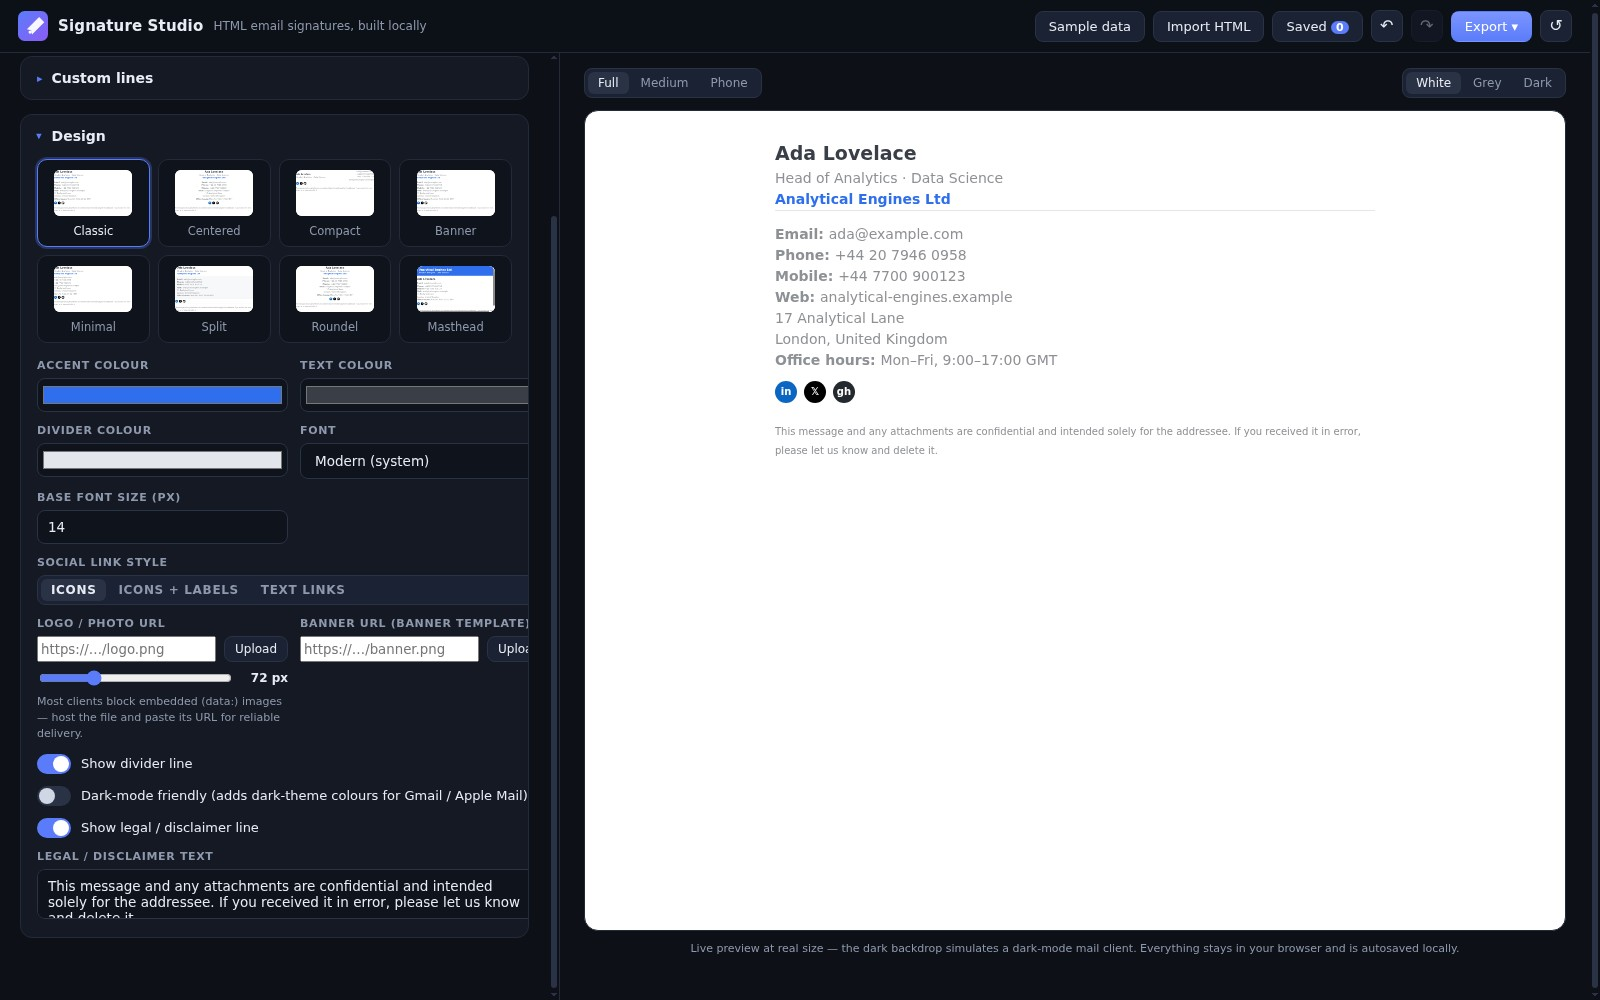
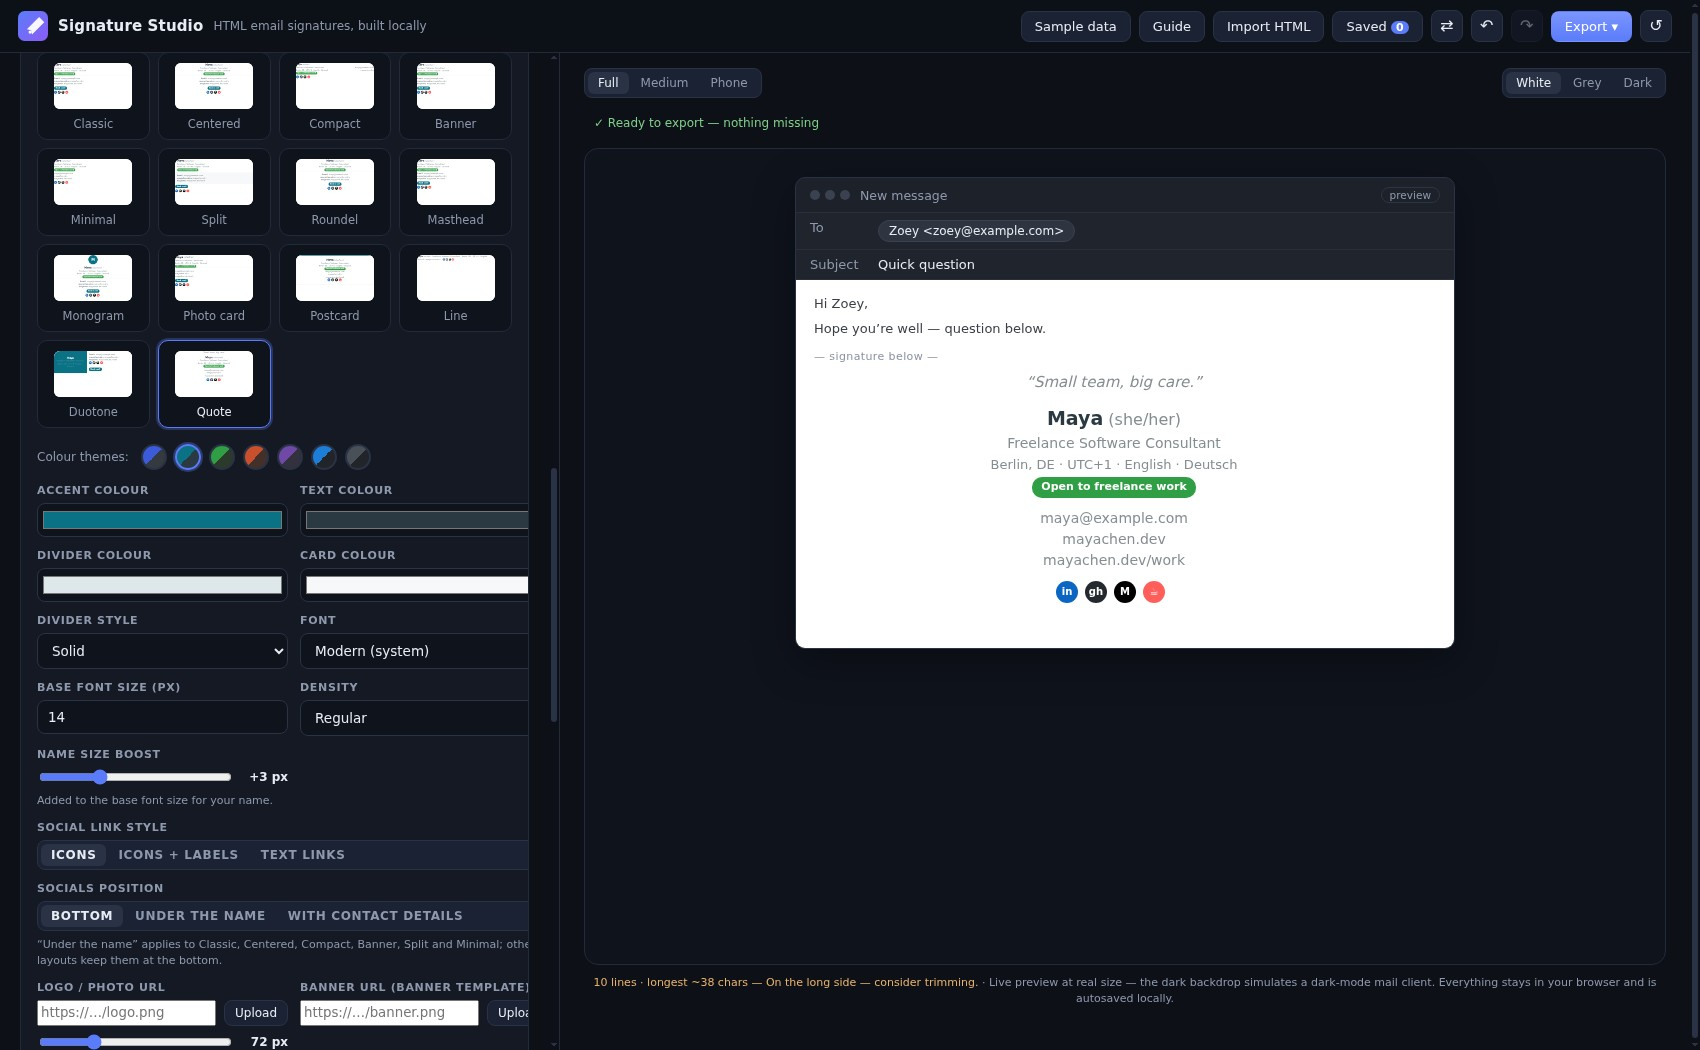
v0.17.0: four new templates — Postcard, Line, Duotone, Quote
- Postcard: casual bordered card with an accent strip, centered
  content, labels off, socials at the bottom
- Line: one casual row — name · title · location · website with tiny
  18px inline social chips (socialChipHtml gained an optional size
  param; all existing calls byte-identical)
- Duotone: bold 220px accent panel with white identity text beside a
  white contact column; stacks on phones via m-cell
- Quote: personal centred layout with an optional italic favourite
  quote (new design.quoteText field, empty = omitted); freelancer
  sample carries one
- All Outlook-safe (table layout, inline styles, strict-mode radius
  handling); E2E now 53 tests (4 new template markers), 53/53 twice
- Reverted two subagent calls: default accent colour restored to
  #2f6fed (marker updated instead), corporate sample kept quote-free
- Docs + refreshed templates gallery screenshot

diff --git a/assets/js/templates.js b/assets/js/templates.js
@@ -176,7 +176,7 @@ function contactInlineHtml(s, d, { labels = false } = {}) {
     .join(`<span style="font-size:${d.fontSize}px;color:${mutedColor(d)};">&nbsp;·&nbsp;</span>`);
 }
 
-function socialChipHtml(d, soc, withLabel) {
+function socialChipHtml(d, soc, withLabel, size = 22) {
   const net = networkById(soc.network);
   const isCustom = net.id === 'custom';
   const glyph = isCustom ? (soc.glyph || '↗') : net.glyph;
@@ -186,8 +186,8 @@ function socialChipHtml(d, soc, withLabel) {
   const href = normalizeUrl(net.id, raw);
   const iconUrl = String(soc.iconUrl || '').trim();
   const chip = iconUrl
-    ? `<img src="${esc(iconUrl)}" width="22" height="22" alt="" style="display:inline-block;width:22px;height:22px;border:0;${br(d, '11px')}vertical-align:middle;">`
-    : `<span style="display:inline-block;width:22px;height:22px;line-height:22px;text-align:center;` +
+    ? `<img src="${esc(iconUrl)}" width="${size}" height="${size}" alt="" style="display:inline-block;width:${size}px;height:${size}px;border:0;${br(d, '11px')}vertical-align:middle;">`
+    : `<span style="display:inline-block;width:${size}px;height:${size}px;line-height:${size}px;text-align:center;` +
       `background-color:${color};color:#ffffff;${br(d, '11px')}` +
       `font-family:Arial,Helvetica,sans-serif;font-size:10px;font-weight:bold;vertical-align:middle;">${esc(glyph)}</span>`;
   if (!withLabel) return `<a href="${esc(href)}" style="text-decoration:none;">${chip}</a>`;
@@ -566,6 +566,176 @@ function photocardRows(s, d) {
   return rows.join('\n');
 }
 
+/* Postcard: a friendly bordered card with a 6px accent strip up top —
+   casual, warm, everything centred inside the card. */
+function postcardRows(s, d) {
+  const rows = [];
+  const den = densityOf(d);
+
+  const strip = `<tr><td colspan="2" height="6" style="height:6px;line-height:6px;font-size:0;background-color:${d.primaryColor};"></td></tr>`;
+
+  const logo = logoCellHtml(s, d);
+  const logoBlock = logo
+    ? `<table role="presentation" cellpadding="0" cellspacing="0" border="0" align="center" style="border-collapse:collapse;"><tr><td align="center" style="padding:0 0 ${den.rowGap}px 0;">${logo}</td></tr></table>`
+    : '';
+  const identity = [nameHtml(s, d), titleHtml(s, d), companyHtml(s, d),
+    contextLineHtml(s, d), statusHtml(s, d)].join('').replace(/<br>$/, '');
+  const stack = contactStackHtml(s, d, { labels: false });
+  const socials = socialsRowHtml(s, d);
+  const socialsBlock = socials
+    ? `<table role="presentation" cellpadding="0" cellspacing="0" border="0" align="center" style="border-collapse:collapse;"><tr><td>${socials}</td></tr></table>`
+    : '';
+
+  const inner = [logoBlock, identity, stack, socialsBlock].filter(x => x !== '').join('<br>');
+
+  rows.push(`<tr><td colspan="2" style="border:1px solid ${d.dividerColor};${br(d, '10px')}background-color:#ffffff;padding:0;">` +
+    `<table role="presentation" width="100%" cellpadding="0" cellspacing="0" border="0" style="border-collapse:collapse;">` +
+    strip +
+    `<tr><td colspan="2" align="center" style="padding:${den.cellPad}px;">${inner || '&nbsp;'}</td></tr>` +
+    `</table></td></tr>`);
+  rows.push(legalHtml(s, d));
+  return rows.join('\n');
+}
+
+/* Line: one casual line — name, a few muted details, tiny 18px socials. */
+function lineRows(s, d) {
+  const rows = [];
+  const muted = mutedColor(d);
+  const sep = `<span style="font-size:${d.fontSize}px;color:${muted};">&nbsp;·&nbsp;</span>`;
+  const parts = [];
+
+  const name = nameHtml(s, d, { big: false }).replace(/<br>$/, '');
+  if (name) parts.push(name);
+
+  if (d.showTitle !== false) {
+    const bits = [
+      s.profile.title,
+      d.showDepartment !== false ? s.profile.department : '',
+    ].filter(Boolean);
+    if (bits.length) {
+      parts.push(`<span${dmCls(d, 'mut')} style="${textStyle(d, { color: muted })}">${esc(bits.join('  ·  '))}</span>`);
+    }
+  }
+
+  if (d.showLocation !== false) {
+    const loc = [s.profile.location, s.profile.languages].filter(Boolean).join('  ·  ');
+    if (loc) {
+      parts.push(`<span${dmCls(d, 'mut')} style="${textStyle(d, { color: muted })}">${esc(loc)}</span>`);
+    }
+  }
+
+  if (s.contact.website && d.showWebsite !== false) {
+    const href = normalizeUrl('custom', s.contact.website);
+    const label = String(s.contact.websiteLabel || '').trim() || s.contact.website;
+    parts.push(`<a href="${esc(href)}"${dmCls(d, 'mut')} style="${textStyle(d, { color: muted })};text-decoration:none;">${esc(label)}</a>`);
+  }
+
+  if (d.showSocials !== false) {
+    const socials = s.socials.filter(x => String(x.url || '').trim());
+    if (socials.length) {
+      const chips = socials.map(soc => socialChipHtml(d, soc, false, 18)).join('&nbsp;');
+      parts.push(`&nbsp;&nbsp;${chips}`);
+    }
+  }
+
+  if (parts.length) {
+    rows.push(`<tr><td colspan="2" align="left">${parts.join(sep)}</td></tr>`);
+  }
+  rows.push(legalHtml(s, d));
+  return rows.join('\n');
+}
+
+/* Duotone: white-on-accent identity panel left (220px), plain white contact
+   column right. */
+function duotoneRows(s, d) {
+  const rows = [];
+  const den = densityOf(d);
+  const light = mixColors(d.primaryColor, '#ffffff', 0.25);
+
+  const logoContent = logoCellHtml(s, d);
+  const shown = String(s.profile.displayName || s.profile.name || '').trim();
+
+  const leftParts = [];
+  if (logoContent) {
+    leftParts.push(`<table role="presentation" cellpadding="0" cellspacing="0" border="0" align="center" style="border-collapse:collapse;"><tr><td align="center" style="padding:0 0 ${den.rowGap}px 0;">${logoContent}</td></tr></table>`);
+  }
+  if (shown) {
+    leftParts.push(`<span style="${textStyle(d, { size: d.fontSize + nameExtraOf(d), color: '#ffffff', weight: 'bold' })}">${esc(shown)}</span><br>`);
+  }
+  if (d.showTitle !== false) {
+    const bits = [
+      s.profile.title,
+      d.showDepartment !== false ? s.profile.department : '',
+    ].filter(Boolean);
+    if (bits.length) {
+      leftParts.push(`<span style="${textStyle(d, { size: d.fontSize, color: light })}">${esc(bits.join('  ·  '))}</span><br>`);
+    }
+  }
+  if (d.showCompany !== false && s.profile.company) {
+    leftParts.push(`<span style="${textStyle(d, { size: d.fontSize, color: light, weight: 'bold' })}">${esc(s.profile.company)}</span><br>`);
+  }
+  if (d.showLocation !== false) {
+    const loc = [s.profile.location, s.profile.languages].filter(Boolean).join('  ·  ');
+    if (loc) {
+      leftParts.push(`<span style="${textStyle(d, { size: d.fontSize - 1, color: light })}">${esc(loc)}</span><br>`);
+    }
+  }
+
+  const leftCell = `<td class="m-cell" width="220" valign="middle" align="center" style="background-color:${d.primaryColor};padding:${den.cellPad}px;">` +
+    (leftParts.join('') || '&nbsp;') + `</td>`;
+
+  const stack = contactStackHtml(s, d);
+  const socials = socialsPos(d) === 'inContact' ? '' : socialsRowHtml(s, d);
+  const booking = bookingHtml(s, d);
+  const rightInner = [stack, socials, booking].filter(x => x !== '').join('<br>');
+
+  const rightCell = `<td class="m-cell" valign="middle" style="background-color:#ffffff;padding:${den.cellPad}px;">${rightInner || '&nbsp;'}</td>`;
+
+  rows.push(`<tr>${leftCell}${rightCell}</tr>`);
+  rows.push(legalHtml(s, d));
+  return rows.join('\n');
+}
+
+/* Quote: a favourite line above the identity — personal and warm. */
+function quoteRows(s, d) {
+  const rows = [];
+  const den = densityOf(d);
+  const quote = String(s.design.quoteText || '').trim();
+
+  if (quote) {
+    rows.push(`<tr><td colspan="2" align="center"><span style="${textStyle(d, { size: d.fontSize + 1, color: mutedColor(d), style: 'italic' })}">“${esc(quote)}”</span></td></tr>`);
+    rows.push(spacerHtml(den.rowGap));
+  }
+
+  const logo = logoCellHtml(s, d);
+  if (logo) {
+    rows.push(`<tr><td colspan="2" align="center"><table role="presentation" cellpadding="0" cellspacing="0" border="0" align="center" style="border-collapse:collapse;"><tr><td align="center" style="padding:0 0 ${den.rowGap}px 0;">${logo}</td></tr></table></td></tr>`);
+    rows.push(spacerHtml(den.rowGap));
+  }
+
+  const identity = nameHtml(s, d) + titleHtml(s, d) + companyHtml(s, d) +
+    contextLineHtml(s, d) + statusHtml(s, d);
+  if (identity) {
+    rows.push(`<tr><td colspan="2" align="center">${identity}</td></tr>`);
+  }
+
+  const stack = contactStackHtml(s, d, { labels: false });
+  if (stack) {
+    rows.push(spacerHtml(den.rowGap));
+    rows.push(`<tr><td colspan="2" align="center">${stack}</td></tr>`);
+  }
+
+  const socials = socialsRowHtml(s, d);
+  if (socials) {
+    rows.push(spacerHtml(den.rowGap));
+    rows.push(`<tr><td colspan="2" align="center"><table role="presentation" cellpadding="0" cellspacing="0" border="0" align="center" style="border-collapse:collapse;"><tr><td>${socials}</td></tr></table></td></tr>`);
+  }
+
+  rows.push(spacerHtml(den.rowGap));
+  rows.push(legalHtml(s, d));
+  return rows.join('\n');
+}
+
 /* ── document assembly ────────────────────────────────────────────────── */
 
 function darkStyleBlock(d) {
@@ -615,7 +785,11 @@ function renderSignature(state) {
     case 'masthead': inner = mastheadRows(s, d); break;
     case 'monogram': inner = monogramRows(s, d); break;
     case 'photocard': inner = photocardRows(s, d); break;
-    default:         inner = classicRows(s, d);
+    case 'postcard':  inner = postcardRows(s, d); break;
+    case 'line':      inner = lineRows(s, d); break;
+    case 'duotone':   inner = duotoneRows(s, d); break;
+    case 'quote':     inner = quoteRows(s, d); break;
+    default:          inner = classicRows(s, d);
   }
 
   const outerAlign = ['centered', 'roundel', 'monogram'].includes(d.template) ? 'center' : 'left';

diff --git a/index.html b/index.html
@@ -162,6 +162,22 @@
             <span class="thumb"><iframe class="tthumb" data-tpl="photocard" title="Photo card preview" tabindex="-1" aria-hidden="true" sandbox=""></iframe></span>
             <span class="tpl-name">Photo card</span>
           </button>
+          <button class="tpl-btn" data-template="postcard" type="button" aria-pressed="false">
+            <span class="thumb"><iframe class="tthumb" data-tpl="postcard" title="Postcard preview" tabindex="-1" aria-hidden="true" sandbox=""></iframe></span>
+            <span class="tpl-name">Postcard</span>
+          </button>
+          <button class="tpl-btn" data-template="line" type="button" aria-pressed="false">
+            <span class="thumb"><iframe class="tthumb" data-tpl="line" title="Line preview" tabindex="-1" aria-hidden="true" sandbox=""></iframe></span>
+            <span class="tpl-name">Line</span>
+          </button>
+          <button class="tpl-btn" data-template="duotone" type="button" aria-pressed="false">
+            <span class="thumb"><iframe class="tthumb" data-tpl="duotone" title="Duotone preview" tabindex="-1" aria-hidden="true" sandbox=""></iframe></span>
+            <span class="tpl-name">Duotone</span>
+          </button>
+          <button class="tpl-btn" data-template="quote" type="button" aria-pressed="false">
+            <span class="thumb"><iframe class="tthumb" data-tpl="quote" title="Quote preview" tabindex="-1" aria-hidden="true" sandbox=""></iframe></span>
+            <span class="tpl-name">Quote</span>
+          </button>
         </div>
 
         <div class="themes-row" id="themes-row">
@@ -269,6 +285,9 @@
           <label class="switch span2"><input type="checkbox" data-field="design.showLegal"><span class="sw"></span> Show legal / disclaimer line</label>
           <label class="field span2">Legal / disclaimer text
             <textarea rows="2" data-field="design.legalText" placeholder="This message and any attachments are confidential…"></textarea>
+          </label>
+          <label class="field span2">Favourite quote <span class="opt">(used by the Quote template — leave empty to skip)</span>
+            <input data-field="design.quoteText" placeholder="Small team, big care.">
           </label>
           <label class="field span2">Signature name <span class="opt">(used for file names and the Saved panel)</span>
             <input data-field="meta.name" placeholder="My signature">

diff --git a/assets/js/state.js b/assets/js/state.js
@@ -19,6 +19,10 @@ const TEMPLATES = [
   { id: 'masthead', name: 'Masthead', desc: 'Company name in a coloured brand band up top.' },
   { id: 'monogram', name: 'Monogram', desc: 'Initials avatar, centred — no image needed.' },
   { id: 'photocard', name: 'Photo card', desc: 'Portrait photo left, big name — the personal profile.' },
+  { id: 'postcard', name: 'Postcard', desc: 'A friendly bordered card with an accent strip — casual and warm.' },
+  { id: 'line',     name: 'Line',     desc: 'One casual line: name, a few details, tiny socials.' },
+  { id: 'duotone',  name: 'Duotone',  desc: 'A bold accent panel behind your photo and name.' },
+  { id: 'quote',    name: 'Quote',    desc: 'A favourite line above your name — personal and warm.' },
 ];
 
 /* Curated colour themes: one click sets accent, text and divider together.
@@ -59,6 +63,7 @@ function defaultState() {
       socialStyle: 'icons',   // icons | icons_labels | labels
       showLegal: false,
       legalText: '',
+      quoteText: '',
       darkModeFriendly: false,
       stackMobile: true,
       showLabels: true,
@@ -120,6 +125,7 @@ function sampleState(personaId = 'default') {
     ];
     s.customLines = [{ label: 'Projects', value: 'mayachen.dev/work' }];
     s.design.statusText = 'Open to freelance work';
+    s.design.quoteText = 'Small team, big care.';
     s.design.template = 'split';
     applyTheme(s, 'ocean');
     s.meta.name = 'Maya — freelance';

diff --git a/e2e/templates.spec.js b/e2e/templates.spec.js
@@ -68,6 +68,24 @@ const MARKERS = {
   photocard: {
     has: ['valign="top"'],
   },
+  /* postcardRows: the accent top strip (accent bg + height:6 + font-size:0). */
+  postcard: {
+    has: ['height="6" style="height:6px;line-height:6px;font-size:0;background-color:#2f6fed'],
+  },
+  /* lineRows: tiny 18px inline social chips (every other layout uses 22px). */
+  line: {
+    has: ['width:18px;height:18px'],
+    not: ['valign="middle"', 'background-color:#f6f8fa'],
+  },
+  /* duotoneRows: the 220px accent identity panel. */
+  duotone: {
+    has: ['width="220"'],
+  },
+  /* quoteRows: the italic quote line (no other layout emits italics). */
+  quote: {
+    setup: 'quote',
+    has: ['font-style:italic'],
+  },
 };
 
 for (const [template, marker] of Object.entries(MARKERS)) {
@@ -82,6 +100,8 @@ for (const [template, marker] of Object.entries(MARKERS)) {
       await page.fill('[data-field="design.bannerUrl"]', DATA_URI);
     } else if (marker.setup === 'logo') {
       await page.fill('[data-field="design.logoUrl"]', DATA_URI);
+    } else if (marker.setup === 'quote') {
+      await page.fill('[data-field="design.quoteText"]', 'Small team, big care.');
     }
 
     await page.click(`.tpl-btn[data-template="${template}"]`);

diff --git a/docs/qa-report.md b/docs/qa-report.md
@@ -400,6 +400,38 @@ support, reduced motion — audited with the better-accessibility skill.
 
 ---
 
+# v0.17.0 addendum (four new templates)
+
+Date: 2026-11-19 · Scope: Postcard, Line, Duotone, Quote templates + the
+optional `quoteText` design field.
+
+## Notes
+
+- Postcard: bordered card, 6px accent strip, centered casual content
+  (labels off), socials at the bottom, legal outside the card; strict
+  mode drops the radius.
+- Line: a single casual row — name, muted title/location/website joined
+  with ·, and inline 18px social chips (socialChipHtml gained an optional
+  size param; existing calls byte-identical).
+- Duotone: 220px accent panel with white name / lighter-white title and
+  context (mixColors) beside a white contact column; m-cell stacking on
+  phones.
+- Quote: optional italic quote (design.quoteText, empty = omitted) above
+  the centered identity; freelancer sample carries "Small team, big care."
+- Renderer subagent suite 53/53 (14 templates render, 10 pre-existing
+  markers hold, new markers exclusive across all 14, hostile quote input
+  escaped, socialChipHtml regression byte-identical, toggles respected in
+  the new layouts, strict mode strips the postcard radius).
+- Two subagent judgement calls reverted by the parent: the default accent
+  colour was changed to satisfy a test marker — restored to #2f6fed and
+  the marker updated instead; Ada's corporate sample was given a quote —
+  removed, the quote E2E now sets the field explicitly.
+- Playwright: 53/53 twice consecutively (4 new template-marker tests);
+  pixel checks confirm the postcard strip and duotone panel render.
+  Templates gallery screenshot refreshed.
+
+---
+
 # v0.4.0 addendum
 
 Date: 2026-11-19 · Scope: logo position (left/right of the name block) in

diff --git a/docs/roadmap.md b/docs/roadmap.md
@@ -67,6 +67,10 @@ ship them. Checked items are shipped (v0.1.0 / v0.2.0).
   keyboard-operable switches/segmented controls, aria-labels on every icon
   button, named dialogs, role=status toasts, skip-to-content link,
   visible focus rings everywhere, prefers-reduced-motion; E2E now 49
+- [x] v0.17.0 — four new templates (14 total): Postcard (casual card with
+  accent strip), Line (casual one-liner with tiny socials), Duotone
+  (creative accent panel with white identity text), Quote (personal,
+  optional italic favourite quote via the new quoteText field); E2E now 53
 - [ ] Live demo — skipped for now (user decision, 2026-11-19). This
   instance (17.0.1+gitea-1.22.0) has **no Pages feature** — Gitea removed
   it from the 1.21 base; there is no `[pages]` config and no Pages API.

diff --git a/README.md b/README.md
@@ -8,8 +8,9 @@ tracking. Works offline.
 
 ## Features
 
-- **9 layout templates** — Classic, Centered, Compact, Banner, Minimal,
-  Split, Roundel, Masthead, Monogram, Photo card — with **live thumbnails**
+- **14 layout templates** — Classic, Centered, Compact, Banner, Minimal,
+  Split, Roundel, Masthead, Monogram, Photo card, Postcard, Line, Duotone,
+  Quote — with **live thumbnails**
   in the picker that render your actual signature in each layout as you type.
 - **Mobile-friendly by default** — signatures use a fluid width (shrink to any
   screen instead of clipping) and multi-column layouts stack into a single
